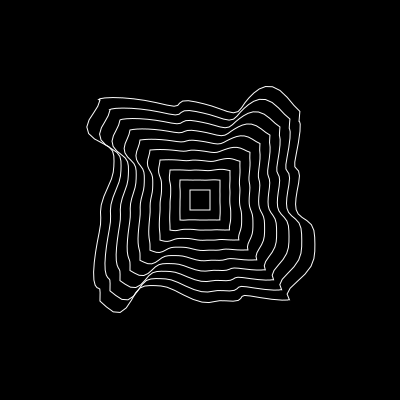
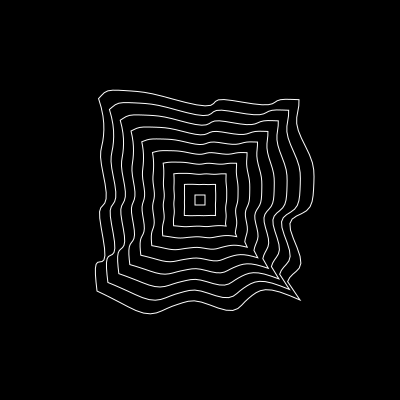
update readme

Changed region(s): [[0.21, 0.21, 0.81, 0.78], [0.78, 0.42, 0.81, 0.51], [0.36, 0.78, 0.39, 0.81]]

diff --git a/README.md b/README.md
@@ -41,23 +41,26 @@ You can see a preview [here](https://editor.urpflanze.org)
 - [Menu](#menu)
 - [Installation](#installation)
 - [Creating a shape](#creating-a-shape)
-  - [ShapeBuffer](#shapebuffer)
-  - [ShapeLoop](#shapeloop)
-- [Primitive shapes](#primitive-shapes) - [ShapeBuffer](#shapebuffer-1) - [ShapeLoop](#shapeloop-1)
+	- [ShapeBuffer](#shapebuffer)
+	- [ShapeLoop](#shapeloop)
+- [Primitive shapes](#primitive-shapes)
+		- [ShapeBuffer](#shapebuffer-1)
+		- [ShapeLoop](#shapeloop-1)
+	- [Modifiers](#modifiers)
 - [Repetitions](#repetitions)
-  - [Ring repetitions](#ring-repetitions)
-  - [Matrix repetitions](#matrix-repetitions)
+	- [Ring repetitions](#ring-repetitions)
+	- [Matrix repetitions](#matrix-repetitions)
 - [Manage repetitions](#manage-repetitions)
-  - [Repetitions examples](#repetitions-examples)
-  - [List of properties](#list-of-properties)
+	- [Repetitions examples](#repetitions-examples)
+	- [List of properties](#list-of-properties)
 - [Encapsulation](#encapsulation)
-  - [Shape](#shape)
-  - [Group](#group)
-  - [Using repetition property of the encapsulator](#using-repetition-property-of-the-encapsulator)
+	- [Shape](#shape)
+	- [Group](#group)
+	- [Using repetition property of the encapsulator](#using-repetition-property-of-the-encapsulator)
 - [Recursion](#recursion)
 - [Vertex Callback](#vertex-callback)
 - [Scene](#scene)
-  - [Simple Drawer](#simple-drawer)
+	- [Simple Drawer](#simple-drawer)
 - [Examples](#examples)
 
 ---
@@ -155,7 +158,18 @@ console.log(circle.getBuffer().length)
 
 ## Primitive shapes
 
-In this package there are already some basic shapes:
+In this package there are already some primitive shapes.
+You can use the static `getBuffer` method to receive a buffer.
+
+```javascript
+console.log(Urpflanze.Rect.getBuffer(/*{ ...props }*/))
+// Float32Array(8) [
+//    1,  1, -1,  1,
+//   -1, -1,  1, -1
+// ]
+```
+
+List of all primitives:
 
 #### ShapeBuffer
 
@@ -174,6 +188,31 @@ In this package there are already some basic shapes:
 
 ---
 
+### Modifiers
+
+On primitive shapes you can apply modifiers to the buffer before transformations are applied:
+
+```javascript
+const squircle = new Urpflanze.Rect({
+	modifiers: [new Urpflanze.Modifiers.Smooth({ level: 3, tension: 0.3 })],
+})
+```
+
+![](https://docs.urpflanze.org/core/assets/images/readme/modifiers-1.png)
+
+The list of modifiers is:
+
+- `Adapt`: Fit the shape into a rectangle
+- `Close`: Adds a close point to the buffer
+- `Mirror`: clones the shape on the x, y axes
+- `Offset`: Slice of a buffer
+- `Smooth`: Makes the shape smoother
+- `Subdivide`: Adds midpoints on the edges of the shape
+- `Solidify`: (in progress) Tread the edge of the shape
+-
+
+---
+
 ## Repetitions
 
 Using Urpflanze you can manage two types of repetitions: **ring** or **matrix**.
@@ -183,7 +222,7 @@ Using Urpflanze you can manage two types of repetitions: **ring** or **matrix**.
 For this type of repetition you can set a numeric value to the `repetitions` property to indicate the number of times it will repeat and the` distance` property to indicate the distance from the center.
 
 ```javascript
-new Urpflanze.Rect({
+const rects = new Urpflanze.Rect({
 	repetitions: 8,
 	distance: 100,
 	sideLength: 25,
@@ -195,7 +234,7 @@ new Urpflanze.Rect({
 Basically the shapes will be rotated towards the center, if you want to avoid this effect you have to rotate the vorma inversely to the current angle of the repetition.
 
 ```javascript
-new Urpflanze.Rect({
+const rects = new Urpflanze.Rect({
 	repetitions: 8,
 	sideLength: 25,
 	distance: 100,
@@ -210,7 +249,7 @@ new Urpflanze.Rect({
 To repeat the shape as an array, just pass an Array of numbers indicating the number of rows and columns to the `repetitions` property. The `distance` property in this case will also be an Array containing the distance between the rows and columns.
 
 ```javascript
-new Urpflanze.Rect({
+const matrix = new Urpflanze.Rect({
 	repetitions: [3, 4],
 	sideLength: 20,
 	distance: [80, 50],
@@ -238,7 +277,7 @@ For matrix repetitions you can also use `repetition.row` and` repetition.col` al
 ### Repetitions examples
 
 ```javascript
-new Urpflanze.Rect({
+const spiral = new Urpflanze.Rect({
 	repetitions: 8,
 	sideLength: 25,
 	distance: ({ repetition }) => repetition.offset * 100,
@@ -249,7 +288,7 @@ new Urpflanze.Rect({
 ![](https://docs.urpflanze.org/core/assets/images/readme/repetition-1.png)
 
 ```javascript
-new Urpflanze.Rect({
+const matrix = new Urpflanze.Rect({
 	repetitions: [4],
 	sideLength: 25,
 	distance: 50,
@@ -339,7 +378,7 @@ You can use the `repetition` object of whoever encapsulates a shape by setting t
 This parameter is optional since a new buffer of points will be generated at each repetition of the encapsulator.
 
 ```javascript
-const rect = new Urpflanze.Rect({
+const rects = new Urpflanze.Rect({
 	bUseParent: true, // <--
 
 	repetitions: [5],
@@ -351,7 +390,7 @@ const rect = new Urpflanze.Rect({
 })
 
 const container = new Urpflanze.Shape({
-	shape: rect,
+	shape: rects,
 	repetitions: [5],
 	distance: 50,
 	scale: 0.4,
@@ -400,23 +439,21 @@ The function takes 3 arguments:
 const rects = new Urpflanze.Rect({
 	repetitions: [10, 1],
 	sideLength: 100,
-	scale: propArguments => propArguments.repetition.row.offset * 0.9 + 0.1,
-
+	scale: propArguments => propArguments.repetition.row.offset * 0.95 + 0.05,
+	modifiers: new Urpflanze.Modifiers.Subdivide({ level: 5 }),
 	vertexCallback: (vertex, vertexRepetition, propArguments) => {
-		const angle = vertexRepetition.offset * Urpflanze.PI2
+		const angle = Math.atan2(vertex[1], vertex[0])
 
 		const x = Math.cos(angle)
 		const y = Math.sin(angle)
 
 		const offset = propArguments.repetition.row.offset ** 2 * 20
-		const noise = Urpflanze.noise('seed', angle * 2) * offset
+		const noise = Urpflanze.noise('seed', vertexRepetition.offset * 10) * offset
 
 		vertex[0] += x * noise
 		vertex[1] += y * noise
 	},
 })
-
-rects.subdivide(5)
 ```
 
 ![](https://docs.urpflanze.org/core/assets/images/readme/vertexcallback-1.png)
